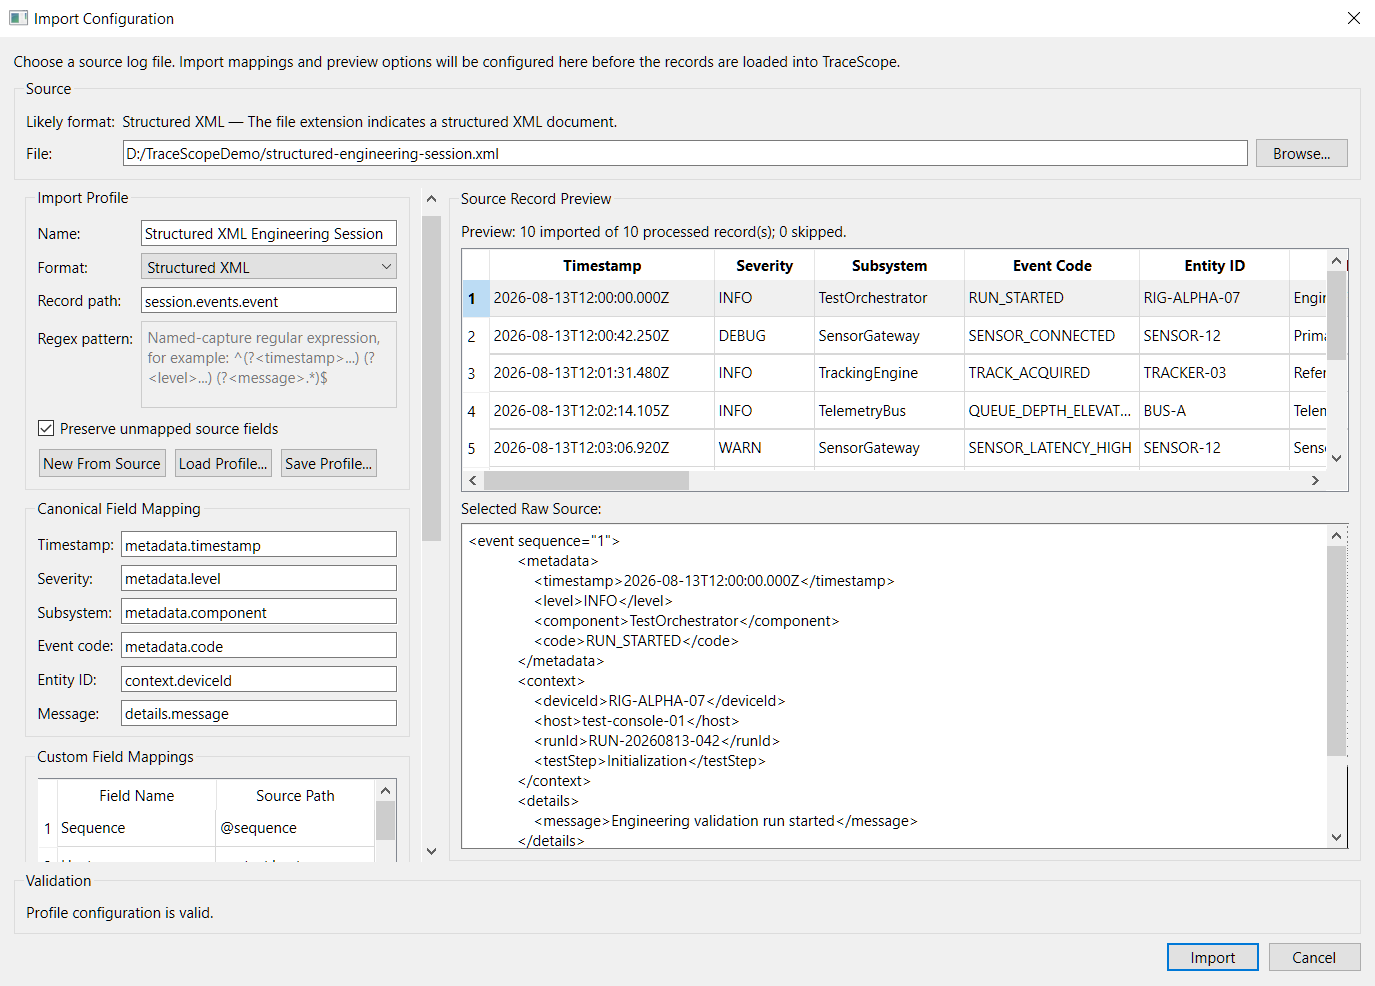
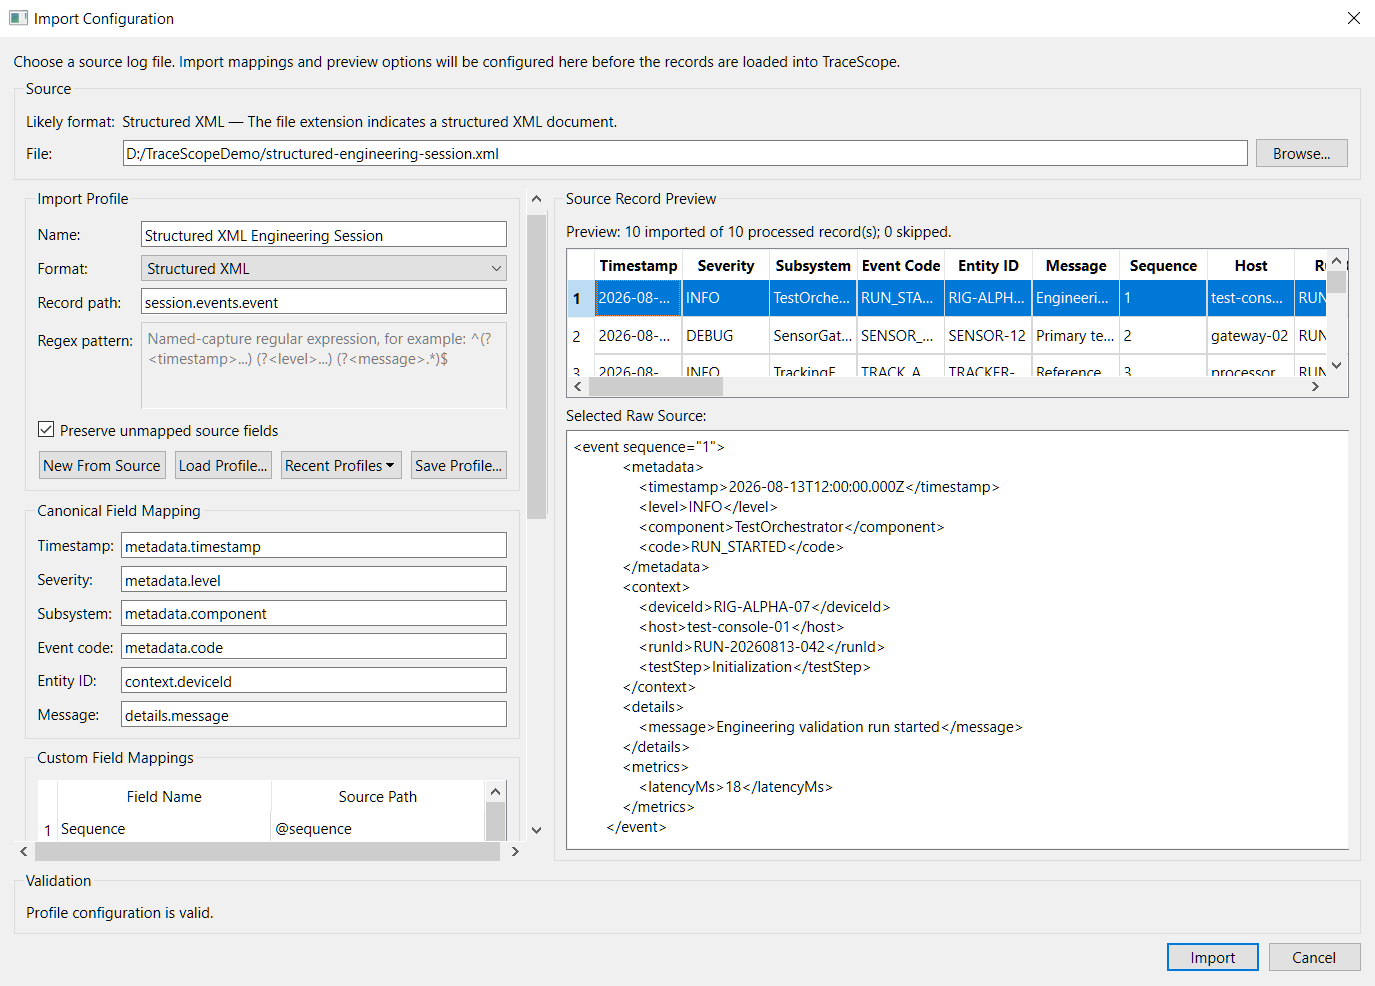
Prepare v0.9.0 release documentation, screenshots, and packaging

Changed region(s): [[0.0, 0.1826, 0.9775, 0.8824], [0.9469, 0.5477, 0.9775, 0.7606], [0.0305, 0.1826, 0.0916, 0.2434]]

diff --git a/README.md b/README.md
@@ -4,13 +4,19 @@
 
 TraceScope is a native C++/Qt desktop application for importing, normalizing, filtering, inspecting, visualizing, and exporting structured telemetry and diagnostic logs.
 
-It began as a focused JSON Lines inspector and has grown into a configurable offline workbench. The `v0.8.0` milestone makes larger investigations more practical by moving import work outside the UI thread, adding streamed source reading, progress reporting, and cancellation where supported, keeping large structured-document configuration responsive, and scaling the timeline to fine-grained and long-duration investigations.
+It began as a focused JSON Lines inspector and has grown into a configurable offline workbench. The current `v0.9.0` release adds a multi-session investigation workspace so related logs can remain open together, retain independent investigation state, reload in place, and be reopened efficiently through persistent recent-file and recent-profile history. This builds on the responsive background import, cancellation, large-document preview safeguards, and scalable timeline work completed in `v0.8.0`.
 
 TraceScope is intended for file-based logs from applications, services, simulated devices, sensors, QA runs, field-support packages, and engineering test systems. It does not claim to automatically understand every arbitrary log format or guarantee a fixed maximum file size. Import behavior stays explicit, testable, and reproducible.
 
+## Documentation
+
+- [Expansion Roadmap](docs/expansion-roadmap.md) — product direction, phased implementation plan, release discipline, and scope boundaries
+- [Performance Notes](docs/performance.md) — measured large-file scenarios, methodology, environment, and interpretation limits
+- [Original Prototype Plan](docs/original-prototype-plan.md) — historical plan for the initial focused JSON Lines inspector
+
 ## Screenshots
 
-The primary `v0.8.0` workflow screenshots use `structured-engineering-session.xml` with the matching `structured-xml-engineering-session-profile.json` profile. The same sample is carried from import configuration through investigation, filtering, timeline navigation, and CSV export. A separate large Windows Event XML scenario demonstrates responsive background import.
+The `v0.9.0` screenshots use the repository samples and reusable profiles to show the current import, multi-session investigation, filtering, timeline, recent-history, large-file, and export workflows. The structured XML engineering session remains the primary walkthrough source, while CSV and JSON Lines samples demonstrate related sessions coexisting in the same workspace.
 
 ### Import Configuration
 
@@ -23,6 +29,12 @@ Choose or drag in a source file, review the suggested format, load or edit a reu
 The main investigation view combines summary counts, filtering controls, selectable timeline resolution, dynamic source-specific columns, grouped issue counts, and selected-record details.
 
 ![TraceScope Dashboard](docs/screenshots/tracescope-dashboard.png)
+
+### Multi-Session Workspace
+
+Multiple imported sources can remain open together as independent investigation sessions. Switching tabs preserves each session's filters, model state, source context, import profile, diagnostics, and presentation state without re-importing the file.
+
+![TraceScope Multi-Session Workspace](docs/screenshots/tracescope-multi-session-workspace.png)
 
 ### Filtered Warnings
 
@@ -42,6 +54,12 @@ Large imports run outside the UI thread. Streamed importers can report determina
 
 ![TraceScope Large-File Import](docs/screenshots/tracescope-large-file-import.png)
 
+### Recent Files
+
+Persistent recent-file history keeps frequently revisited sources easy to reopen through the normal Import Configuration workflow. Recent import profiles are available from the Import Configuration dialog through the same validated profile-loading path.
+
+![TraceScope Recent Files](docs/screenshots/tracescope-recent-files.png)
+
 ### Exported CSV
 
 The export workflow writes the currently visible records to CSV using readable canonical headers and the configured names of mapped custom fields.
@@ -52,19 +70,19 @@ The export workflow writes the currently visible records to CSV using readable c
 
 Portable packages are published through [GitHub Releases](https://github.com/w-cook/tracescope-qt-log-inspector/releases).
 
-The `v0.8.0` package set uses:
+The current `v0.9.0` package set uses:
 
 ```text
-TraceScope-v0.8.0-windows-x64.zip
-TraceScope-v0.8.0-linux-x86_64.AppImage
-TraceScope-v0.8.0-samples.zip
+TraceScope-v0.9.0-windows-x64.zip
+TraceScope-v0.9.0-linux-x86_64.AppImage
+TraceScope-v0.9.0-samples.zip
 ```
 
-Historical `v0.1.0` through `v0.7.0` prereleases remain available as earlier development milestones.
+Historical `v0.1.0` through `v0.8.0` prereleases remain available as earlier development milestones.
 
 ### Windows
 
-1. Download `TraceScope-v0.8.0-windows-x64.zip`.
+1. Download `TraceScope-v0.9.0-windows-x64.zip`.
 2. Extract the complete ZIP.
 3. Launch `TraceScope.exe`.
 4. Open a file from the included `samples` directory.
@@ -73,22 +91,22 @@ The package includes the required Qt libraries, plugins, MinGW runtime dependenc
 
 ### Linux
 
-1. Download `TraceScope-v0.8.0-linux-x86_64.AppImage`.
+1. Download `TraceScope-v0.9.0-linux-x86_64.AppImage`.
 2. Make it executable:
 
 ```bash
-chmod +x TraceScope-v0.8.0-linux-x86_64.AppImage
+chmod +x TraceScope-v0.9.0-linux-x86_64.AppImage
 ```
 
 3. Launch it:
 
 ```bash
-./TraceScope-v0.8.0-linux-x86_64.AppImage
+./TraceScope-v0.9.0-linux-x86_64.AppImage
 ```
 
 ### Sample Logs and Profiles
 
-`TraceScope-v0.8.0-samples.zip` provides a platform-neutral copy of the repository samples and reusable profiles.
+`TraceScope-v0.9.0-samples.zip` provides a platform-neutral copy of the repository samples and reusable profiles.
 
 Representative source/profile pairs include:
 
@@ -135,6 +153,7 @@ Qt, Qt Creator, CMake, Git, and a local compiler are not required to run the pac
 - Disable automatic preview for large structured documents so configuration remains responsive
 - Generate large structured-document previews in the background and cancel obsolete preview work when the source or configuration changes
 - Save reusable profiles and load them only after validation
+- Reopen recently used profiles through persistent recent-profile history while retaining the same validation path
 - Retain an intentional profile when switching sources so compatibility can be checked without silently resetting the configuration
 
 ### Large-File Responsiveness
@@ -144,11 +163,22 @@ Qt, Qt Creator, CMake, Git, and a local compiler are not required to run the pac
 - Report determinate byte/record progress when an importer can provide meaningful incremental progress
 - Use indeterminate progress for complete-document processing such as structured JSON rather than presenting an artificial percentage
 - Support cooperative cancellation for streamed imports without replacing the current investigation with partial results
-- Keep normalized records, raw-source values, dynamic attributes, and investigation state resident for the active investigation rather than claiming constant-memory behavior
+- Keep normalized records, raw-source values, dynamic attributes, and investigation state resident for each open session rather than claiming constant-memory behavior
 
 Measured Release-build scenarios cover representative JSON Lines, CSV, IIS W3C, Windows Event XML, and structured JSON investigations containing up to 220,000 records and approximately 109 MiB on the documented test system. These are measured observations rather than maximum supported file-size or throughput guarantees.
 
 See [Performance Notes](docs/performance.md) for the measurement method, test environment, scenario results, cancellation checks, and interpretation boundaries.
+
+### Multi-Session Workspace
+
+- Keep multiple imported log sessions open within one application instance
+- Switch and close sessions through a tabbed workspace without replacing unrelated investigation state
+- Preserve an independent investigation controller, filters, source context, import profile, diagnostics, and cached presentation state for each session
+- Reload a session in place using its existing source and import profile without creating a duplicate tab
+- Refresh source metadata and investigation data on reload while retaining applicable filters and stable session identity
+- Preserve the existing session unchanged when a reload is cancelled
+- Maintain persistent, bounded, deduplicated recent-file and recent-profile history through local application settings
+- Reopen recent files through Import Configuration rather than silently importing them, and remove stale recent paths when their menus are opened
 
 ### Investigation Workflow
 
@@ -212,7 +242,7 @@ Different source formats need different amounts of configuration. TraceScope kee
 
 Import profiles map source-specific field names into the optional canonical fields and can also promote useful source values into readable custom columns. Values that are not explicitly mapped can still be preserved.
 
-Windows Event XML support covers XML-formatted events and collections. Native binary `.evtx` ingestion is not part of `v0.8.0`.
+Windows Event XML support covers XML-formatted events and collections. Native binary `.evtx` ingestion is not part of `v0.9.0`.
 
 ## Development Status
 
@@ -229,12 +259,9 @@ Implemented expansion milestones:
 | `v0.6.0` | Desktop import configuration, mapping-aware preview, reusable profile save/load, and sample profiles |
 | `v0.7.0` | Additional built-in formats, format detection/presets, and expanded cross-format samples |
 | `v0.8.0` | Responsive large-file import, progress/cancellation, scalable timeline resolution/navigation, and measured performance scenarios |
+| `v0.9.0` | Multi-session workspace, per-session context and reload, persistent recent files/profiles, and session-switching responsiveness |
 
-The next planned phase is **Multi-Session Investigation Workspace**. Later phases deepen the investigation workflow with advanced filtering and navigation, bookmarks and findings, deterministic analytics, session comparison, persistence, live file following, and reporting.
-
-See the [TraceScope Expansion Roadmap](docs/expansion-roadmap.md) for the detailed phase plan, release discipline, and scope boundaries.
-
-See [Performance Notes](docs/performance.md) for measured large-file scenarios and the limits of those measurements.
+The current release is **`v0.9.0`**. **Phase 9 — Advanced Filtering and Navigation** is in progress for the next development milestone. Later phases add bookmarks and findings, deterministic analytics, session comparison, workspace persistence, live file following, and reporting.
 
 Planned capabilities are not presented as implemented until their corresponding phases are completed and verified.
 
@@ -288,6 +315,9 @@ src/
 ├── importing/                    # Importers, profiles, validation, preview, results, and diagnostics
 ├── models/                       # Investigation table and filter proxy models
 ├── parsing/                      # JSON Lines compatibility facade
+├── preferences/                  # Persistent recent-file and recent-profile history
+├── ui/                           # Import configuration interface
+├── workspace/                    # Multi-session workspace and per-session context
 ├── MainWindow.cpp                # Qt Widgets presentation and workflow orchestration
 ├── MainWindow.h
 └── main.cpp
@@ -330,7 +360,7 @@ cmake --build build --parallel
 ctest --test-dir build --output-on-failure
 ```
 
-The current CTest suite contains 25 executables:
+The current CTest suite contains 28 executables:
 
 - `ParserTests`
 - `RecordSeverityTests`
@@ -357,8 +387,11 @@ The current CTest suite contains 25 executables:
 - `ImportProfileSerializationTests`
 - `ImportPreviewServiceTests`
 - `ImportFormatSuggestionServiceTests`
+- `InvestigationSessionTests`
+- `InvestigationWorkspaceTests`
+- `RecentItemsStoreTests`
 
-Coverage includes the flexible record domain, import results and diagnostics, each built-in importer family, import execution progress/cancellation, profile validation and serialization, preview and format-suggestion behavior, filtering and analysis, dynamic CSV export, Qt model/view behavior, proxy/source mapping, and controller coordination.
+Coverage includes the flexible record domain, import results and diagnostics, each built-in importer family, import execution progress/cancellation, profile validation and serialization, preview and format-suggestion behavior, filtering and analysis, dynamic CSV export, Qt model/view behavior, proxy/source mapping, controller coordination, per-session state, multi-session workspace behavior, reload semantics, and persistent recent-item history.
 
 The same CTest suite runs in GitHub Actions on Windows and Linux.
 
@@ -366,9 +399,9 @@ The same CTest suite runs in GitHub Actions on Windows and Linux.
 
 The GitHub Actions workflow runs three parallel jobs with read-only repository permissions:
 
-- **Windows x64:** pinned Qt/MinGW Release build, CTest, `windeployqt`, package verification, startup smoke test, and `TraceScope-v0.8.0-windows-x64.zip`
-- **Linux x86_64:** pinned Qt/GCC Release build on Ubuntu 22.04, CTest, `linuxdeploy`, AppImage verification, offscreen startup smoke test, and `TraceScope-v0.8.0-linux-x86_64.AppImage`
-- **Samples:** verifies representative source/profile pairs and packages the complete `samples` directory as `TraceScope-v0.8.0-samples.zip`
+- **Windows x64:** pinned Qt/MinGW Release build, CTest, `windeployqt`, package verification, startup smoke test, and `TraceScope-v0.9.0-windows-x64.zip`
+- **Linux x86_64:** pinned Qt/GCC Release build on Ubuntu 22.04, CTest, `linuxdeploy`, AppImage verification, offscreen startup smoke test, and `TraceScope-v0.9.0-linux-x86_64.AppImage`
+- **Samples:** verifies representative source/profile pairs and packages the complete `samples` directory as `TraceScope-v0.9.0-samples.zip`
 
 Workflow artifacts validate candidate packages. Approved packages are attached permanently to GitHub Releases.
 

diff --git a/docs/expansion-roadmap.md b/docs/expansion-roadmap.md
@@ -52,7 +52,7 @@ Important target workflows include:
 * navigating efficiently around warnings, errors, bursts, and surrounding context
 * recording findings and producing useful investigation output
 
-## Current Prototype Baseline
+## Original Prototype Baseline
 
 The original prototype uses:
 
@@ -118,12 +118,13 @@ Completed release milestones:
 | `v0.6.0` | Import Configuration Interface | prerelease |
 | `v0.7.0` | Additional Built-In Formats | prerelease |
 | `v0.8.0` | Responsive Large-File Import | prerelease |
+| `v0.9.0` | Multi-Session Investigation Workspace | prerelease |
 
-Current release target:
+Current development target:
 
 | Version | Milestone | Status |
 | --- | --- | --- |
-| `v0.9.0` | Multi-Session Investigation Workspace | active development |
+| `v0.10.0` | Advanced Filtering and Navigation | in progress |
 
 Release assets follow a consistent naming convention:
 
@@ -160,7 +161,7 @@ The `v0.2.0` implementation includes typed severity parsing, ISO timestamp parsi
 
 ## Import Architecture
 
-Implemented foundations through `v0.8.0`:
+Implemented foundations through `v0.9.0`:
 
 * flexible investigation records with optional canonical fields and preserved source data
 * structured import results and diagnostics
@@ -182,12 +183,15 @@ Implemented foundations through `v0.8.0`:
 * import parsing outside the UI thread with progress and cooperative cancellation
 * large structured-document preview safeguards with cancellable background preview generation
 * scalable event-count timeline rendering with automatic and manual resolutions, windowed fine-resolution navigation, and bounded on-screen bucket materialization
+* multi-session workspace ownership with independent per-session investigation controllers and retained import context
+* session switching, closing, and in-place reload using stable session identities
+* persistent recent-file and recent-profile history backed by local application settings
 
 Reusable import profiles are versioned, human-readable JSON so mappings can be reused, shared, and committed alongside the applications that produce the logs. The desktop workflow now exposes those profile and preview services directly while keeping import behavior explicit and reproducible.
 
 Importers are registered internally. An external binary plugin ecosystem is not part of the initial expansion.
 
-Phase 6 established the representative ingestion baseline in `v0.7.0`. Phase 7 then shifted attention from format breadth to responsiveness and investigation scalability. The `v0.8.0` release keeps supported imports responsive through background parsing, progress/cancellation behavior, large-structured-document preview safeguards, and timeline scaling work. Phase 8 is now in active development and focuses on multi-session investigation before later phases expand navigation and filtering, findings, comparison, persistence, live following, deterministic analytics, and reporting rather than continuing to accumulate built-in formats.
+Phase 6 established the representative ingestion baseline in `v0.7.0`. Phase 7 then shifted attention from format breadth to responsiveness and investigation scalability. The `v0.8.0` release keeps supported imports responsive through background parsing, progress/cancellation behavior, large-structured-document preview safeguards, and timeline scaling work. Phase 8 completed the transition from a single replaceable investigation to a multi-session workspace in `v0.9.0`. Phase 9 is now in progress and focuses on advanced filtering and navigation before later phases add findings, deterministic analytics, comparison, persistence, live following, and reporting rather than returning to open-ended format expansion.
 
 ## Development Phases
 
@@ -448,24 +452,37 @@ Performance work should continue to be measured against practical investigation 
 
 ### Phase 8 — Multi-Session Investigation Workspace
 
-**Status: Active development; targeted for `v0.9.0`.**
+**Status: Completed in `v0.9.0`.**
 
-Allow multiple imported sessions to coexist within one application instance so related logs from different applications, services, devices, test runs, or system components can be investigated without repeatedly replacing the active source.
+Expanded TraceScope from a single replaceable investigation into a workspace where related logs from different applications, services, devices, test runs, or system components can remain open together.
 
-The goal is not merely tabbed file viewing. The workspace should preserve enough per-session context that an engineer can move between related evidence while retaining the source, diagnostics, and profile information needed to understand how each session was imported.
+The implementation preserves meaningful per-session context rather than treating tabs as interchangeable file views. Each session owns its investigation controller and retains the source, import profile, diagnostics, filtering state, and presentation metadata needed to move between related evidence without rebuilding the investigation.
 
-Planned deliverables:
+Completed deliverables:
 
-* multiple open sessions
-* session switching
-* session closing
-* session reloading
-* per-session source metadata
-* per-session diagnostics
-* recent files
-* recent profiles
+* multiple open investigation sessions within one application instance
+* tabbed session switching with independent per-session filter and model state
+* session closing with deterministic active-session selection and a consistent empty-workspace state
+* stable session identities so session operations do not depend on mutable tab indexes
+* in-place session reloading using the original source path and import profile without creating duplicate tabs
+* reload behavior that refreshes source metadata and imported records while retaining applicable filters
+* cooperative reload cancellation that leaves the existing session unchanged
+* per-session source metadata including path, name, size, last-modified time, and import time
+* per-session retention of the import profile, import diagnostics, processed-record count, and source-truncation state
+* per-session cached data capabilities, timeline bounds, and column widths to avoid repeated full-dataset work while switching sessions
+* responsive switching verified with representative large performance fixtures
+* persistent recent-file history using local application settings
+* recent files reopened through the normal Import Configuration workflow rather than imported silently
+* persistent recent-profile history using the existing validated profile-loading path
+* bounded, deduplicated most-recent-first history for files and profiles with stale-path cleanup
+* automated coverage for session state, workspace add/switch/close/reload behavior, and recent-item persistence
+* local full-suite and UI regression verification
+* Windows and Linux CI verification
+* refreshed release screenshots covering the multi-session and recent-history workflows
 
 ### Phase 9 — Advanced Filtering and Navigation
+
+**Status: In progress; targeted for `v0.10.0`.**
 
 Expand investigation controls beyond the prototype filters so users can move efficiently from a large normalized record set to the small portion relevant to a failure, warning pattern, subsystem, entity, time window, or source-specific field.
 
